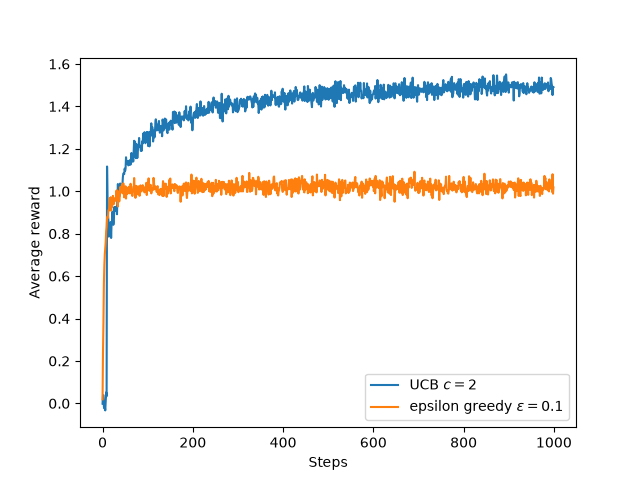
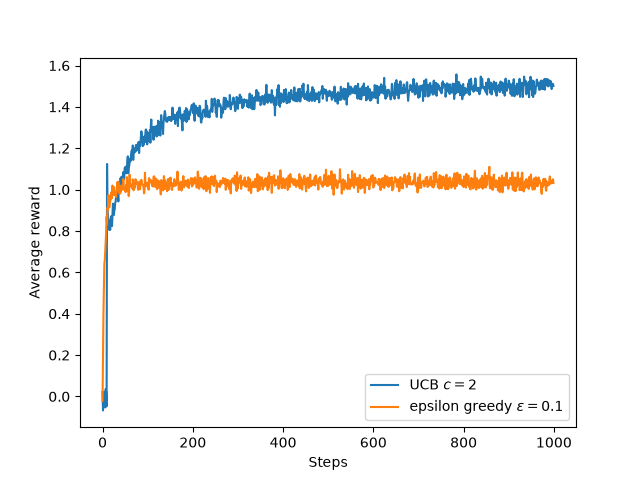
Thompson Sampling Agent

diff --git a/MAB_EpsilonGreedy_UCB.py b/MAB_EpsilonGreedy_UCB.py
@@ -2,6 +2,9 @@ import matplotlib
 import matplotlib.pyplot as plt
 import numpy as np
 from tqdm import trange
+import random
+from numpy.random import beta, binomial
+from scipy.stats import beta
 
 from abc import ABC, abstractmethod
 
@@ -48,6 +51,7 @@ class Base_Bandit(ABC):
 
         self.time = 0
 
+
     # get an action for this bandit
     @abstractmethod
     def act(self):
@@ -71,6 +75,7 @@ class Base_Bandit(ABC):
             self.q_estimation[action] += self.step_size * (
                 reward - self.q_estimation[action]
             )
+
         return reward
 
 class EpsilonGreedy(Base_Bandit): 
@@ -92,6 +97,98 @@ class UCB(Base_Bandit):
         return np.random.choice(np.where(self.q_estimation == q_best)[0])    
 
 
+class ThompsonSampling(Base_Bandit):
+    def __init__(self, alphas=None, betas=None, successes=None, failures=None):
+        self.k_arm = 0
+        # default to uniform priors (1, 1) if not provided
+        self.default_alpha = 1
+        self.default_beta = 1
+            
+        # will be initialized in initialize() or reset()
+        self.alphas = alphas
+        self.betas = betas
+        self.successes = successes
+        self.failures = failures
+        self.best_action = None
+        self.true_probs = None
+
+    def initialize(self, k_arm, true_probs=None):
+        self.k_arm = k_arm
+        self.true_probs = true_probs
+        if true_probs:
+            self.best_action = int(np.argmax(true_probs))
+                
+        # reset to uniform priors
+        self.alphas = [self.default_alpha] * k_arm
+        self.betas = [self.default_beta] * k_arm
+        self.successes = [0] * k_arm
+        self.failures = [0] * k_arm
+
+    def reset(self):
+        # resets the internal state for a new run
+        if self.k_arm > 0:
+            self.alphas = [self.default_alpha] * self.k_arm
+            self.betas = [self.default_beta] * self.k_arm
+            self.successes = [0] * self.k_arm
+            self.failures = [0] * self.k_arm
+
+    def act(self) -> int:
+        samples = [np.random.beta(a, b) for a, b in zip(self.alphas, self.betas)]
+        return int(np.argmax(samples))
+
+    def step(self, action: int) -> float:
+        """
+        Simulates the environment: generates a reward based on true probabilities,
+        updates the internal counts, and returns the reward.
+        """
+        if self.true_probs is None:
+            raise ValueError("true_probs must be set via initialize() before calling step()")
+                
+        # generate reward (Bernoulli trial)
+        reward = 1 if random.random() < self.true_probs[action] else 0
+            
+        # update internal statistics
+        if reward == 1:
+            self.successes[action] += 1
+            self.alphas[action] += 1
+        else:
+            self.failures[action] += 1
+            self.betas[action] += 1
+                
+        return reward
+
+    def update(self, arm, reward):
+        pass
+
+    def plot_posteriors(self, arm_labels=None):
+        # plots the Probability Density Function (PDF) of the Beta distribution for each arm."""
+        n_arms = len(self.alphas)
+        if arm_labels is None:
+            arm_labels = [f"Arm {i+1}" for i in range(n_arms)]
+            
+        x = np.linspace(0, 1, 1000)
+        plt.figure(figsize=(10, 6))
+        
+        for i in range(n_arms):
+            # calculate shape parameters: prior + observed
+            a = self.alphas[i] # equivalent to successes + prior_alpha
+            b = self.betas[i]  # equivalent to failures + prior_beta
+            
+            pdf = beta.pdf(x, a, b)
+            
+            label = f"{arm_labels[i]} ($\\alpha$={a}, $\\beta$={b})"
+            if i == self.best_action:
+                plt.plot(x, pdf, label=label, linewidth=2.5, linestyle='--')
+            else:
+                plt.plot(x, pdf, label=label)
+
+        plt.xlabel("Probability of Success ($\\theta$)")
+        plt.ylabel("Probability Density")
+        plt.title("Posterior Beta Distributions for Each Arm")
+        plt.legend()
+        #plt.show()      
+
+
 def simulate(runs, time, bandits):
     rewards = np.zeros((len(bandits), runs, time))
     best_action_counts = np.zeros(rewards.shape)
@@ -103,7 +200,8 @@ def simulate(runs, time, bandits):
                 reward = bandit.step(action)
                 rewards[i, r, t] = reward
                 if action == bandit.best_action:
-                    best_action_counts[i, r, t] = 1
+                    best_action_counts[i, r, t] = 1 
+
     mean_best_action_counts = best_action_counts.mean(axis=1)
     mean_rewards = rewards.mean(axis=1)
     return mean_best_action_counts, mean_rewards
@@ -154,6 +252,55 @@ def figure_UCB(runs=2000, time=1000, show=False):
     plt.close()
 
 
+def figure_TS(runs=2000, time=1000, show=False):
+    true_probs = [0.2, 0.7, 0.5]
+    k_arms = len(true_probs)
+
+    ts = ThompsonSampling()
+    ts.initialize(k_arm=k_arms, true_probs=true_probs)
+    bandits_list = [ts]
+    
+    rewards, optimality = simulate(runs, time, bandits=bandits_list)
+    avg_rewards = rewards[0]
+    avg_optimality = optimality[0]
+
+    plt.figure(figsize=(12, 5))
+
+    plt.subplot(1, 2, 1)
+    plt.plot(avg_rewards)
+    plt.title("Average Reward per Step")
+    plt.xlabel("Step")
+    plt.ylabel("Reward")
+
+    plt.subplot(1, 2, 2)
+    plt.plot(avg_optimality * 100)
+    plt.title("Percentage of Optimal Actions")
+    plt.xlabel("Step")
+    plt.ylabel("% Optimal")
+    plt.ylim(0, 100)
+    plt.tight_layout()
+    if show:
+        plt.show()
+    else:
+        plt.savefig("figure_TS.png")
+    plt.close()
+
+
+    # visualize final posteriors
+    ts_viz = ThompsonSampling()
+    ts_viz.initialize(k_arm=k_arms, true_probs=true_probs)
+
+    for _ in range(200):
+        action = ts_viz.act()
+        reward = ts_viz.step(action)
+
+    ts_viz.plot_posteriors(arm_labels=["Low (0.2)", "High (0.7)", "Med (0.5)"])
+    plt.savefig("figure_TS_PDF.png")
+    plt.close()
+
+
+ 
 if __name__ == "__main__":
     figure_epsilongreedy()
     figure_UCB()
+    figure_TS()
